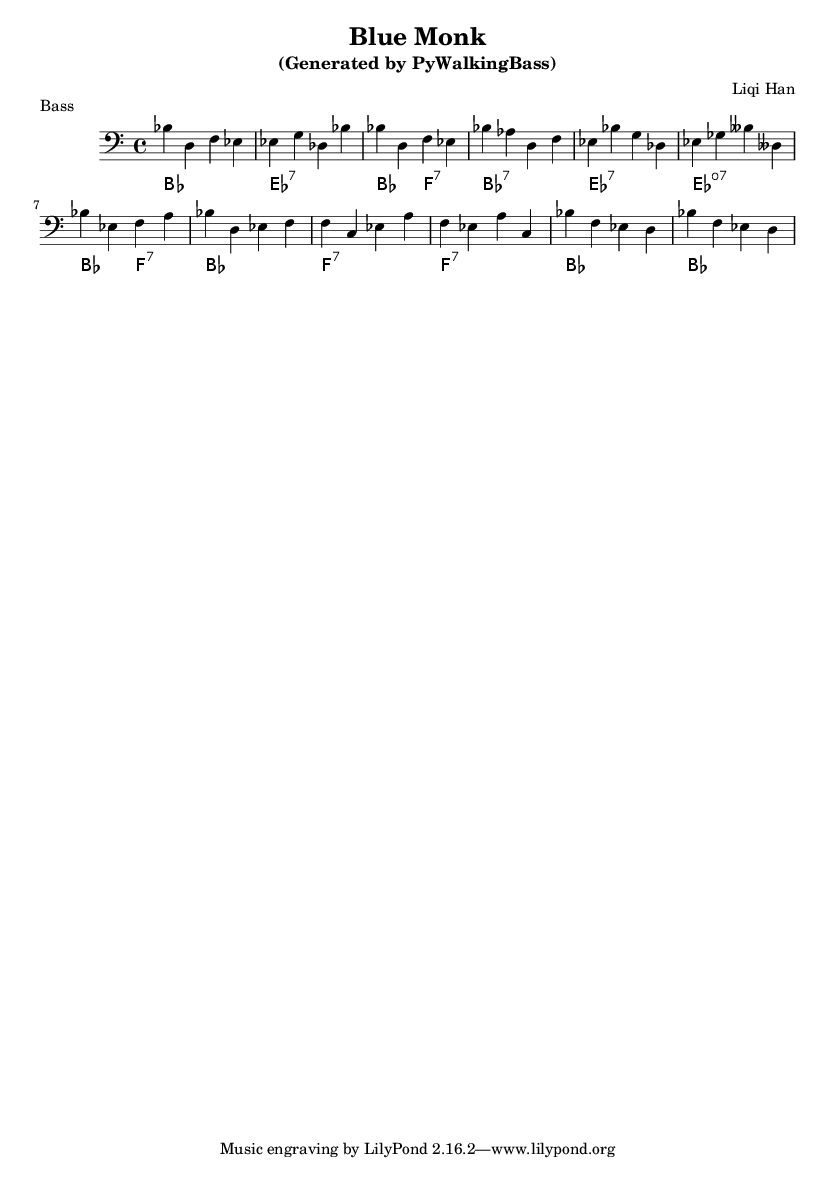
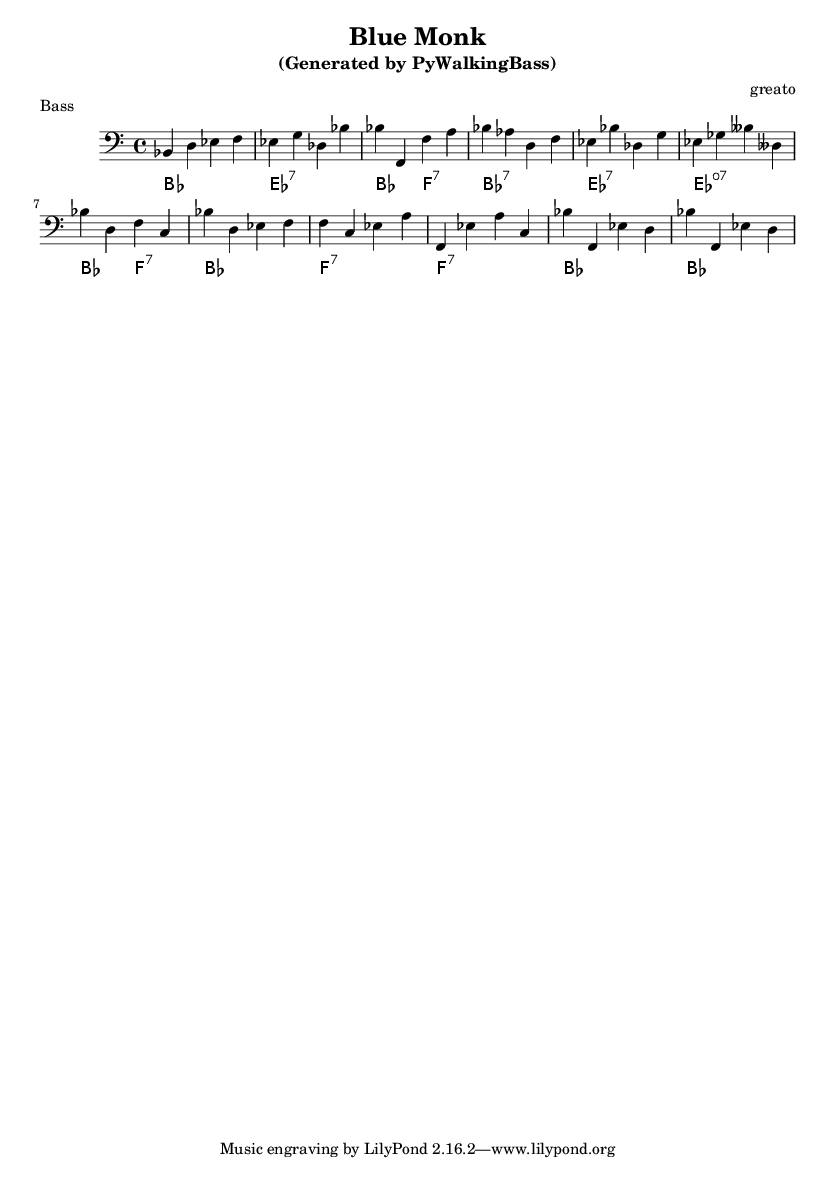
bells_and_whistles

diff --git a/bassgen.py b/bassgen.py
@@ -1,0 +1,145 @@
+#import mingus.core.notes as notes
+#import mingus.core.diatonic as diatonic
+import mingus.core.intervals as intervals
+import mingus.core.chords as chords
+#import mingus.core.scales as scales
+from mingus.containers.Bar import Bar
+from mingus.containers.Track import Track
+import mingus.extra.LilyPond as LilyPond
+from mingus.containers.Instrument import Instrument
+from mingus.containers.Composition import Composition
+from mingus.containers.Note import Note
+
+from random import shuffle
+from random import choice
+
+from itertools import repeat
+
+class walking_bass():
+	''' walking_bass
+		Generates basslines from chords procedurally because bass outlines the chordal tone fancy free
+			1. lookup chordal tones
+			2. sort notes by proximity to the rootnote of the next chord
+			3. add bells and whistles when appropriate
+			4. add notes patterns for long ones (Longest Substring Algorithm)
+		Usage: 
+		>>> B = walking_bass(['Bb','Eb7',['Bb','F7'],'Bb7','Eb7','Eb07',['Bb','F7'],'Bb','F7','F7','Bb','Bb'])
+		>>> print B.bassline
+	'''
+	author = ''
+	title = ''
+	chord =''
+	chordsd = []
+	bassline = []
+	i = Instrument()
+	def __init__(self, chords, title = 'Generated by PyWalking_bass', author = 'greato'):
+		self.author = author
+		self.title = title
+		self.chords = chords
+		self.chordsd = []
+
+		self.i.name = "Jazz Bass"
+		self.i.clef = "bass"
+		self.i.set_range((Note('E-1'), Note('D-5')))
+
+		self.bassline = self._realbook(self.chords)
+		self.bassline = self._prox_interval()
+
+		self._bell_and_whistles()
+		self.track = self._create_track()
+		self.track.add_chords(self.chords)
+		self.to_png()
+
+	def _realbook(self, score, depth = 0): 
+		'''recusive function, looks up tones like fake books'''
+		bassline = []
+		for chord in score:
+			if type(chord) is list:
+				bassline.append(self._realbook(chord,depth+1))
+			else:
+				notes = chords.from_shorthand(chord)
+				rest = notes[1:]
+				shuffle(rest)
+				notes = [notes[0]] + rest
+				take = 4 - depth*2 # [C]xxxx|[G]xx[B]xx|[D]xxxx
+				final = notes[:take]
+				bassline.append(final)
+				self.chordsd.append([chord,final])
+		return bassline
+	def _prox_interval(self): 
+		''' sort notes by proximity to the next chord'''
+		bassline = []
+		for (i, notes) in enumerate(self.chordsd):
+			chordname = notes[0]
+			rootnote = notes[1][0]
+			notes = notes[1][1:]
+			try:
+				next_chord = self.chordsd[i+1][1][0]
+			except IndexError:
+				pass
+			notes = sorted(notes, key=lambda n: abs(intervals.measure(n,next_chord)-5)) # out of 10 notes
+			final = [rootnote] + notes
+			bassline.append( final )
+			self.chordsd[i] = [chordname, final]
+		self.bassline = bassline
+		return bassline
+	
+	def _bell_and_whistles(self):
+		'''This function styles up the bassline, now it can only change octave'''
+		m = []
+		octave = []
+		for i in self.bassline:
+			for j in i:
+				m.append(j)
+		i = m[0]
+		if i in ['E','F','F#','Gb','G']:
+			ret = choice(['1','2','3'])
+		else:
+			ret = choice(['2','3'])
+		octave.append(ret)
+
+		for i in range(1,len(m)): # walking bass is from E-1 to F-3
+			diff = intervals.measure(m[i-1],m[i])
+			if diff > 6 and ret >= '3' and m[i] in ['E','F','G']:
+				ret = str(int(ret)-1)
+			elif ret <= '2':
+				ret = str(int(ret)+1)
+			else:
+				pass
+			octave.append(ret)
+
+		self.octave = octave
+
+	def _create_track(self):
+		tp = Track(self.i)
+		b = Bar( (4,4) )
+		count = 0
+		for chord in self.chordsd:
+			for i in chord[1]:
+				tp + (i+'-'+self.octave[count])
+				count += 1
+		return tp
+	def to_png(self):
+		c = Composition()
+		c.set_author(self.author)
+		c.set_title(self.title)
+		c.add_track(self.track)
+		ly_string = LilyPond.from_Composition(c)
+		#print ly_string
+		LilyPond.to_png(ly_string, self.title)
+
+
+				# TODO: memory of pattern
+				# triplets and bells and whistles
+				# add scales
+
+		
+#DONE! displaying chord names
+#TODO: up down the staff C-1 or C-2  ??
+
+
+
+if __name__ == '__main__':
+	B = walking_bass(['Bb','Eb7',['Bb','F7'],'Bb7','Eb7','Eb07',['Bb','F7'],'Bb','F7','F7','Bb','Bb'],'Blue Monk') # Blue Monk - Thelonious Monk
+	B = walking_bass(['C','Bb'],'Tester')
+	

diff --git a/README.md b/README.md
@@ -1,17 +1,45 @@
-pyWalkingBass
+walkingbass
 =============
+Jazz basslines are simple enough to be generated as they outline the chords without much variation.
+##Algorithm
+	1. looks up chordal tones
+	```
+	def _realbook(self, score, depth = 0): 
+		'''recusive function, looks up tones like fake books'''
+	```
+	2. sorts notes by proximity to the rootnote of the next chord
+	```
+	def _prox_interval(self): 
+		''' sort notes by proximity to the next chord'''
+	```
+	3. adds bells and whistles when appropriate
+	```
+	def _bell_and_whistles(self):
+		'''This function styles up the bassline, now it can only change octave'''
+	```
+	4. outputs to .png .pdf or whatever
+	```
+	def _create_track(self):
+	def to_png(self):
+	```
+	
+##Usage
+```
+	>>> B = walking_bass(['Bb','Eb7',['Bb','F7'],'Bb7','Eb7','Eb07',['Bb','F7'],'Bb','F7','F7','Bb','Bb'], 'Blue Monk') # Blue Monk - Thelonious Monk
+	>>> ^D
+	~$ # *opens generated .png file*
+```
+Or you can dive in the code and tweak the settings
 
-PyWalkingBass generates jazz/swing style walking bass based on chords
+##Note
+I modified the music lib mingus for bass. I added function major_bar and minor_bar and hardcoded bass intervals and output formats.
+Its implementation of LilyPond is incomplete so I added a bunch of lines for the bass.
+`mingus` is a handy library, not as good as whom it named after.
 
-I modified mingus to suit my needs such as adding bass clef. It uses LilyPond to output the sheet music.
-
-----
-Generates basslines from chords procedurally because bass outlines the chordal tone fancy free
-	1. lookup chordal tones
-	2. sort notes by proximity to the rootnote of the next chord
-	3. add bells and whistles when appropriate
-	4. add notes patterns for long ones (Longest Substring Algorithm)
-##Usage: 
-	>>> B = walking_bass(['Bb','Eb7',['Bb','F7'],'Bb7','Eb7','Eb07',['Bb','F7'],'Bb','F7','F7','Bb','Bb'])
-	>>> B.prox_interval()
-	>>> print B.bassline
+##TODO
+* ~~controlled randomness ~~
+* patterns in memory (with longest common substring)
+* scales
+* web
+* styles
+* triplets
